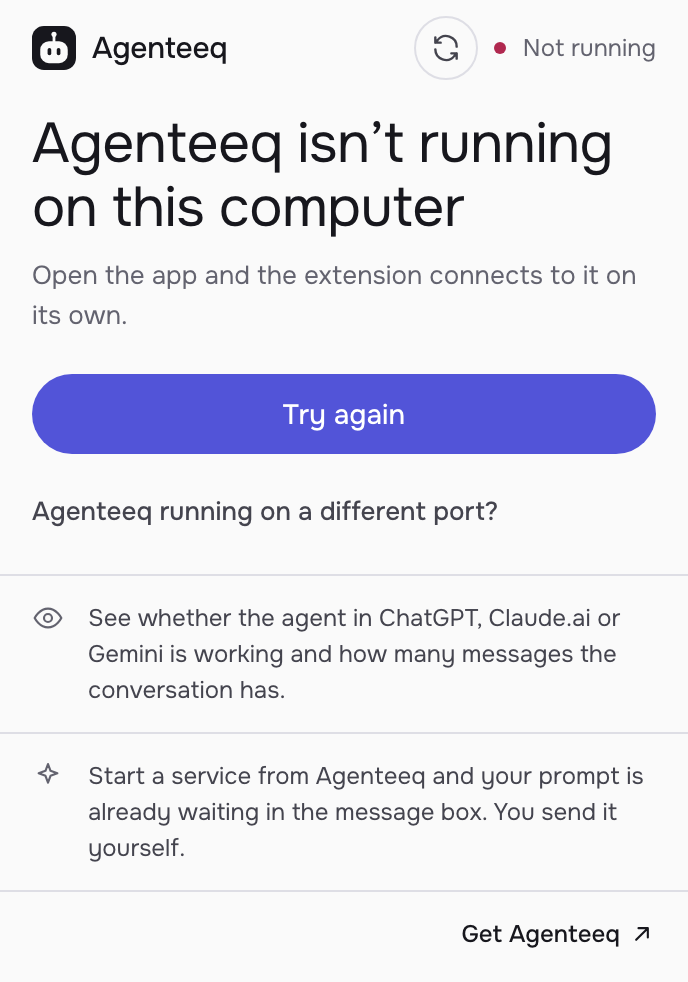
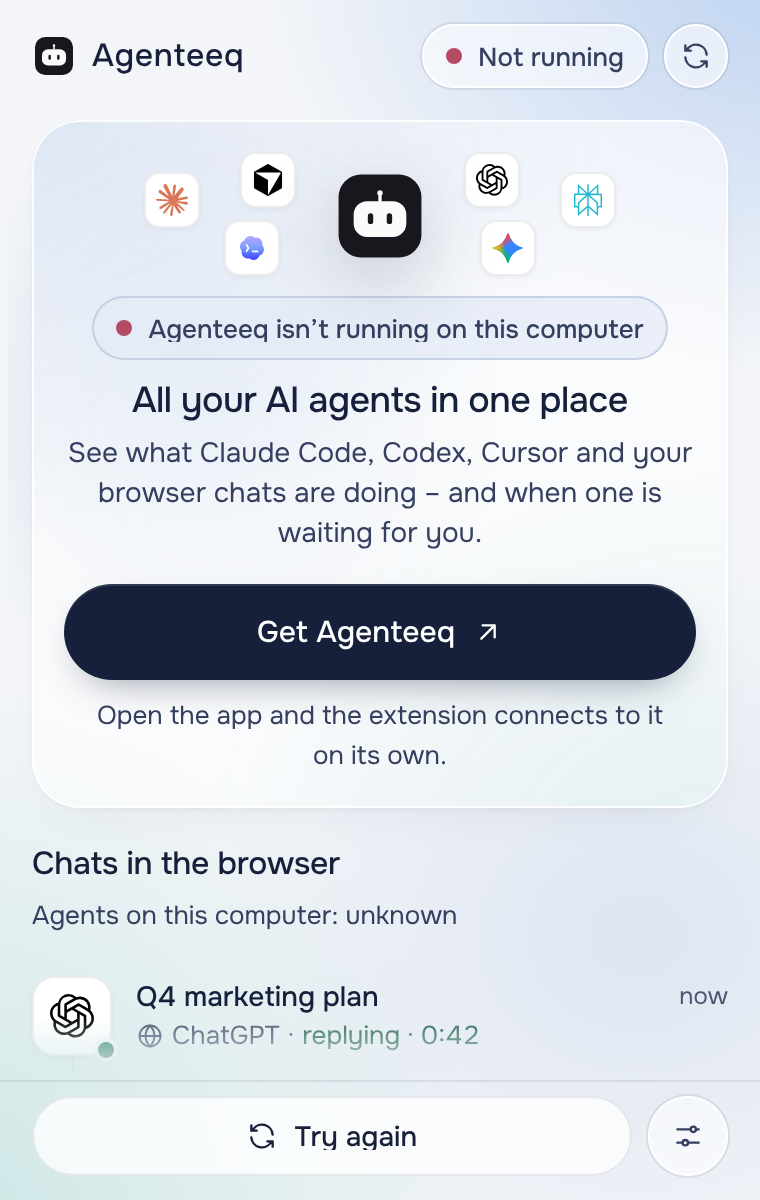
Snímky pro Chrome Web Store z nového okna rozšíření
snimky.mjs vykresluje okno ze skutečného popup.html se stejnou atrapou
a ukázkovými daty jako QA (rušno, služby, aplikace neběží), česky i anglicky;
kompozice počítá s oknem 380 px.

Claude-Session: https://claude.ai/code/session_01Kd21zLMYvUvUu9VejB3Fu3

diff --git a/branding/chrome-web-store/source/snimek.css b/branding/chrome-web-store/source/snimek.css
@@ -9,6 +9,6 @@ p { font-size: 21px; line-height: 1.5; color: var(--on-stage-mute); max-width: 3
 .fakta li { display: flex; gap: 12px; align-items: baseline; }
 .fakta li::before { content: ''; flex: none; width: 8px; height: 8px; border-radius: 50%; background: var(--teal); translate: 0 -2px; }
 .obraz { justify-self: center; display: grid; justify-items: center; gap: 16px; }
-.okno { display: block; width: 344px; border-radius: 16px; box-shadow: 0 0 0 1px var(--line), 0 28px 64px -32px rgba(22, 32, 58, .25); }
+.okno { display: block; width: 380px; border-radius: 16px; box-shadow: 0 0 0 1px var(--line), 0 28px 64px -32px rgba(22, 32, 58, .25); }
 .aplikace { display: block; width: 560px; border-radius: 24px; box-shadow: 0 0 0 1px var(--line), 0 28px 64px -32px rgba(22, 32, 58, .25); }
 .popisek { font-size: 15px; color: var(--on-stage-mute); }
